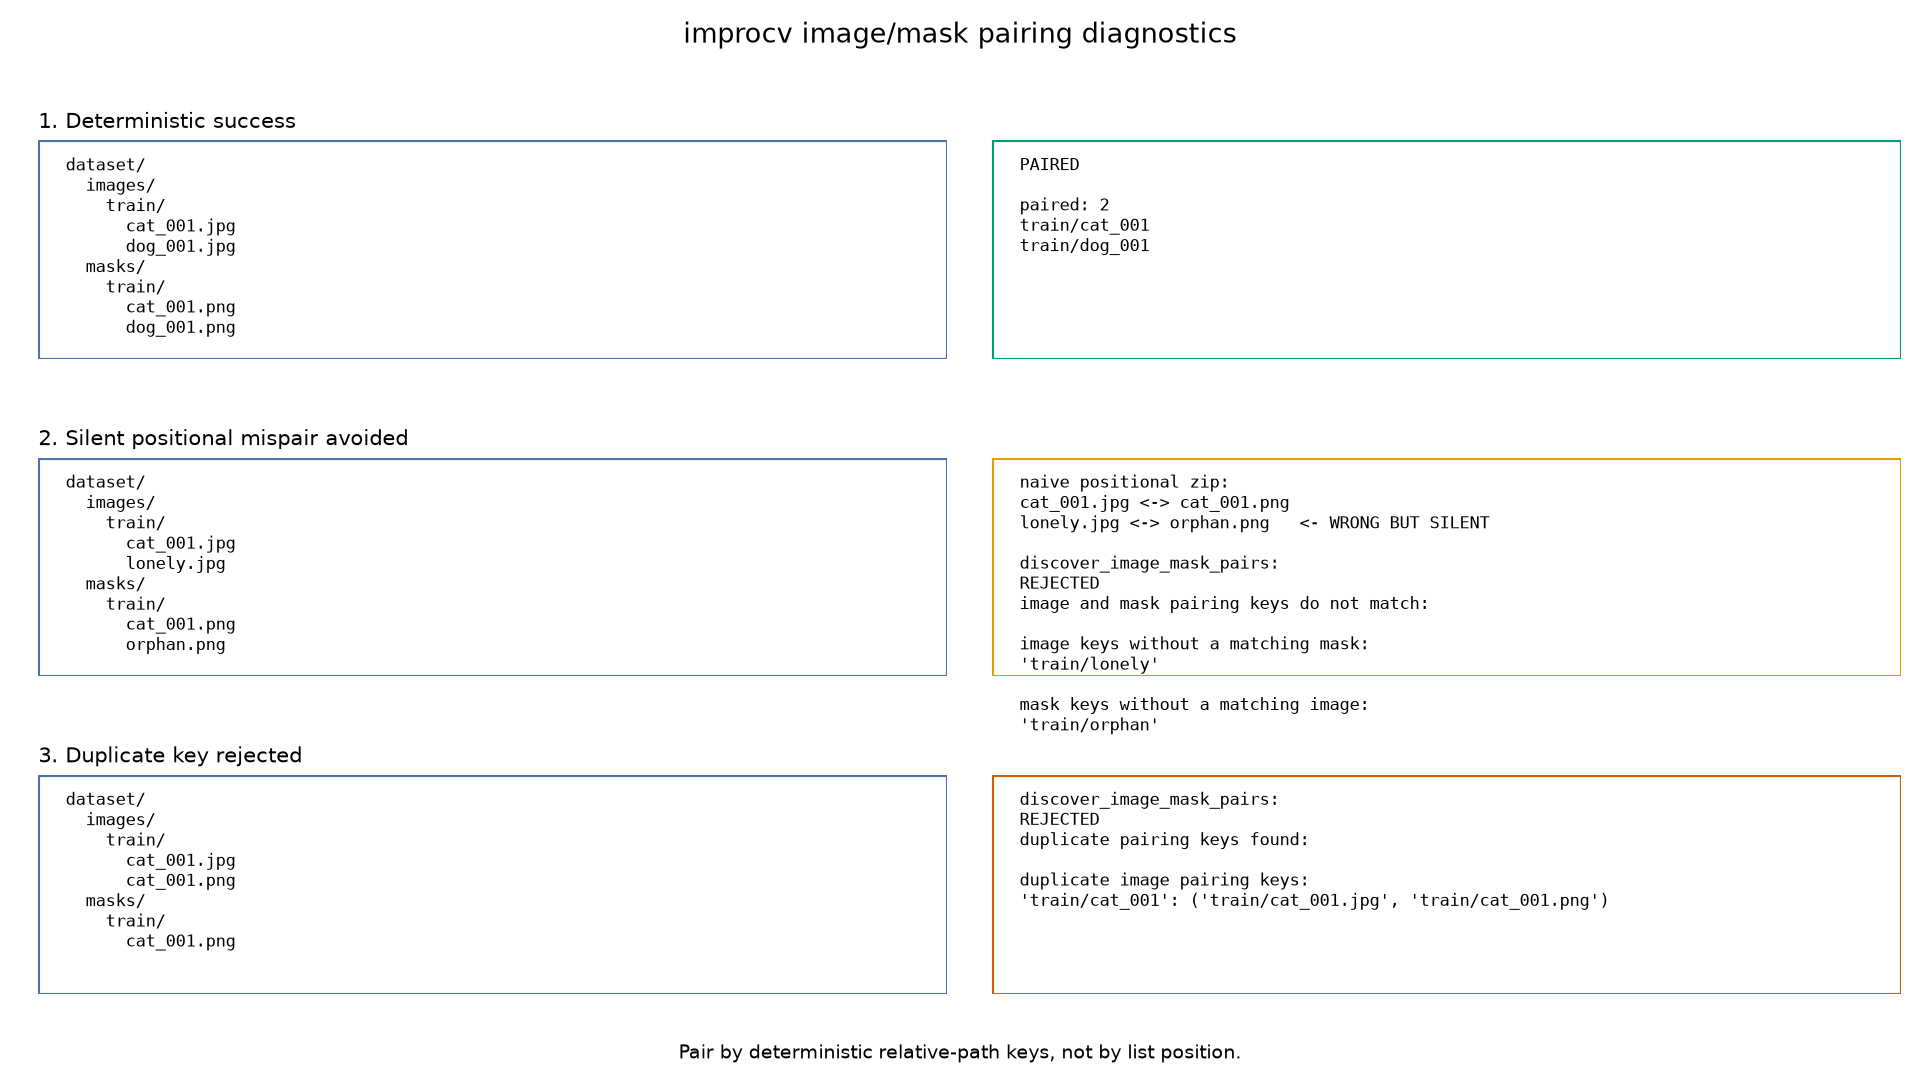
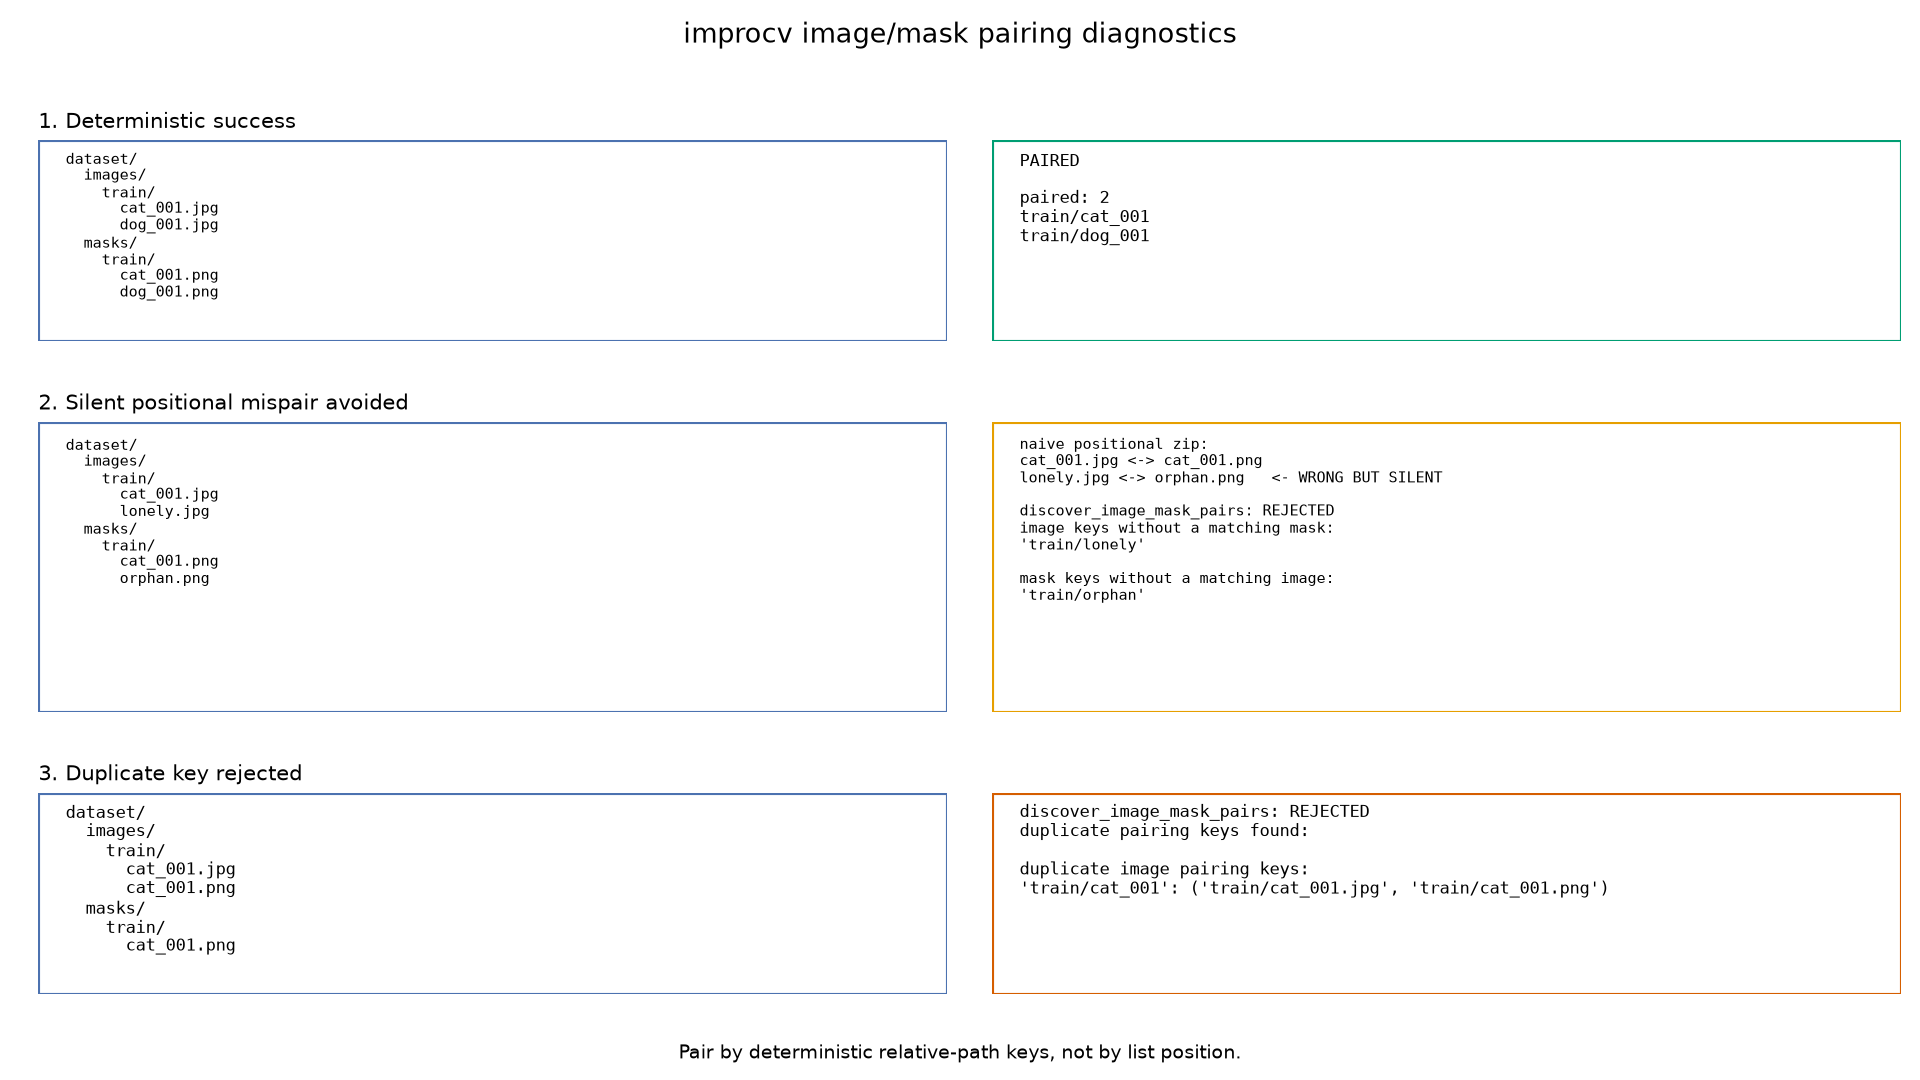
fix(demos): keep pairing diagnostics text inside panels
The missing-pair scenario's result panel needed more lines than the
uniform 3-row grid allocated, so its final lines (the unmatched mask
key) rendered below the panel's own border. Give the middle row more
height (height_ratios), trim the row's own redundant one-line headers
into a single "discover_image_mask_pairs: REJECTED" line, and keep an
exact contiguous slice of the real captured ValueError starting at
"image keys without a matching mask:" instead of its generic preamble.

Split the renderer into build_diagnostics_figure (builds the figure,
returns it with every panel's text artist) and render_diagnostics
(saves and closes it), and add find_text_overflow, which compares each
panel's real rendered text bounding box against its axes' bounding box
after a draw -- used both as an internal safety assertion in the
generator and as a direct regression test with no PNG/OCR involved.

diff --git a/demos/pairing_diagnostics.py b/demos/pairing_diagnostics.py
@@ -29,16 +29,28 @@ from __future__ import annotations
 import argparse
 import sys
 import tempfile
+from collections.abc import Sequence
 from pathlib import Path
-from typing import NamedTuple
+from typing import TYPE_CHECKING, NamedTuple
 
 import cv2
 import numpy as np
 
 import improcv as im
 
+if TYPE_CHECKING:
+    from matplotlib.axes import Axes
+    from matplotlib.backend_bases import RendererBase
+    from matplotlib.figure import Figure
+    from matplotlib.text import Text
+
 _FIGURE_SIZE_INCHES = (12.8, 7.2)
 _FIGURE_DPI = 150
+
+# The missing-pair scenario's real diagnostic (naive zip + a real ValueError, see
+# build_missing_pair_scenario) needs noticeably more lines than the other two rows; giving it a
+# taller share of the figure is what keeps its final lines from overflowing past the panel.
+_ROW_HEIGHT_RATIOS = (0.9, 1.3, 0.9)
 
 _TREE_ACCENT = "#4C72B0"
 _SUCCESS_ACCENT = "#009E73"
@@ -46,6 +58,16 @@ _SILENT_ACCENT = "#E69F00"
 _REJECTED_ACCENT = "#D55E00"
 
 _MAX_DIAGNOSTIC_LINES = 8
+
+# A panel with more than this many lines gets a slightly smaller font (still legible at an
+# 880px README width) instead of being allowed to overflow its axes.
+_COMPACT_FONT_LINE_THRESHOLD = 8
+_DEFAULT_FONT_SIZE = 8.0
+_COMPACT_FONT_SIZE = 7.0
+
+# Minimum on-screen gap (in pixels, at the figure's own render resolution) required between a
+# panel's text bounding box and its axes' bounding box on every side; see find_text_overflow.
+_OVERFLOW_MARGIN_PX = 4.0
 
 
 class Scenario(NamedTuple):
@@ -184,12 +206,19 @@ def build_missing_pair_scenario(root: Path) -> Scenario:
     assert "lonely" in raw_message, raw_message
     assert "orphan" in raw_message, raw_message
 
-    preview = _truncate_lines(_normalize_diagnostic_text(raw_message, dataset))
+    # The raw message's own leading "image and mask pairing keys do not match:" header is
+    # redundant with the "discover_image_mask_pairs: REJECTED" line already shown below it --
+    # this keeps an exact, contiguous slice of the real message starting at the first line that
+    # actually names an unmatched key, never a paraphrase or a hand-typed replacement.
+    fragment_start = "image keys without a matching mask:"
+    assert fragment_start in raw_message, raw_message
+    real_fragment = raw_message[raw_message.index(fragment_start) :]
+
+    preview = _truncate_lines(_normalize_diagnostic_text(real_fragment, dataset))
     result_lines = [
         *naive_lines,
         "",
-        "discover_image_mask_pairs:",
-        "REJECTED",
+        "discover_image_mask_pairs: REJECTED",
         preview,
     ]
 
@@ -226,7 +255,7 @@ def build_duplicate_key_scenario(root: Path) -> Scenario:
     assert "train/cat_001.png" in raw_message, raw_message
 
     preview = _truncate_lines(_normalize_diagnostic_text(raw_message, dataset))
-    result_lines = ["discover_image_mask_pairs:", "REJECTED", preview]
+    result_lines = ["discover_image_mask_pairs: REJECTED", preview]
 
     return Scenario(
         title="3. Duplicate key rejected",
@@ -237,13 +266,68 @@ def build_duplicate_key_scenario(root: Path) -> Scenario:
     )
 
 
-def render_diagnostics(
-    scenarios: tuple[Scenario, Scenario, Scenario], output: Path
-) -> tuple[int, int]:
-    """Render the 3x2 pairing diagnostics layout to `output` as a PNG.
+def _font_size_for(text: str) -> float:
+    """A slightly smaller font for a panel with more than `_COMPACT_FONT_LINE_THRESHOLD` lines.
 
-    Matplotlib is imported and configured here, inside the render path, not at module
-    import time. Returns the written image's `(width, height)` in pixels.
+    Keeps a longer panel's text from needing more vertical space than its row can spare,
+    without shrinking every panel uniformly.
+    """
+    line_count = text.count("\n") + 1
+    return _COMPACT_FONT_SIZE if line_count > _COMPACT_FONT_LINE_THRESHOLD else _DEFAULT_FONT_SIZE
+
+
+def find_text_overflow(
+    panel_texts: Sequence[tuple[Axes, Text]],
+    renderer: RendererBase,
+    margin: float = _OVERFLOW_MARGIN_PX,
+) -> list[str]:
+    """Return one description per `(axes, text)` pair whose rendered bbox overflows its axes.
+
+    `fig.canvas.draw()` must already have happened so `renderer` reflects final positions.
+    Compares each text artist's `get_window_extent()` (its actual rendered pixel bbox) against
+    its own axes' `get_window_extent()`, on all four sides, with a small pixel margin -- this
+    is what actually caught the original bug (the missing-pair panel's last two lines rendering
+    below its axes), not a visual inspection. Empty return means no overflow was found.
+    """
+    problems: list[str] = []
+    for ax, text_artist in panel_texts:
+        text_bbox = text_artist.get_window_extent(renderer=renderer)
+        axes_bbox = ax.get_window_extent(renderer=renderer)
+        label = text_artist.get_text().splitlines()[0] if text_artist.get_text() else "<empty>"
+
+        if text_bbox.y0 < axes_bbox.y0 + margin:
+            problems.append(
+                f"{label!r}: text bottom {text_bbox.y0:.1f} overflows axes bottom "
+                f"{axes_bbox.y0 + margin:.1f} (margin {margin}px)"
+            )
+        if text_bbox.y1 > axes_bbox.y1 - margin:
+            problems.append(
+                f"{label!r}: text top {text_bbox.y1:.1f} overflows axes top "
+                f"{axes_bbox.y1 - margin:.1f} (margin {margin}px)"
+            )
+        if text_bbox.x0 < axes_bbox.x0 + margin:
+            problems.append(
+                f"{label!r}: text left {text_bbox.x0:.1f} overflows axes left "
+                f"{axes_bbox.x0 + margin:.1f} (margin {margin}px)"
+            )
+        if text_bbox.x1 > axes_bbox.x1 - margin:
+            problems.append(
+                f"{label!r}: text right {text_bbox.x1:.1f} overflows axes right "
+                f"{axes_bbox.x1 - margin:.1f} (margin {margin}px)"
+            )
+    return problems
+
+
+def build_diagnostics_figure(
+    scenarios: tuple[Scenario, Scenario, Scenario],
+) -> tuple[Figure, tuple[tuple[Axes, Text], ...]]:
+    """Build the 3x2 pairing diagnostics figure without saving or closing it.
+
+    Matplotlib is imported and configured here, inside the build path, not at module import
+    time. Returns the figure alongside every `(axes, text)` pair placed in the six tree/result
+    panels (not row titles, which sit outside the panel's own text area) -- `render_diagnostics`
+    uses this to save the figure, and `tests/test_demos.py` uses it directly to check for text
+    overflow without ever writing a PNG or reading one back.
     """
     import matplotlib
 
@@ -252,12 +336,23 @@ def render_diagnostics(
     from matplotlib import pyplot as plt
     from matplotlib.patches import Rectangle
 
-    fig, axes = plt.subplots(3, 2, figsize=_FIGURE_SIZE_INCHES, dpi=_FIGURE_DPI)
-    plt.subplots_adjust(left=0.02, right=0.99, top=0.87, bottom=0.08, wspace=0.05, hspace=0.45)
+    fig = plt.figure(figsize=_FIGURE_SIZE_INCHES, dpi=_FIGURE_DPI)
+    grid = fig.add_gridspec(
+        3,
+        2,
+        left=0.02,
+        right=0.99,
+        top=0.87,
+        bottom=0.08,
+        wspace=0.05,
+        hspace=0.35,
+        height_ratios=_ROW_HEIGHT_RATIOS,
+    )
 
+    panel_texts: list[tuple[Axes, Text]] = []
     for row_index, scenario in enumerate(scenarios):
-        tree_ax = axes[row_index, 0]
-        result_ax = axes[row_index, 1]
+        tree_ax = fig.add_subplot(grid[row_index, 0])
+        result_ax = fig.add_subplot(grid[row_index, 1])
 
         tree_ax.set_title(scenario.title, fontsize=10, loc="left")
         for ax, text, accent in (
@@ -265,16 +360,18 @@ def render_diagnostics(
             (result_ax, scenario.result_text, scenario.accent),
         ):
             ax.axis("off")
-            ax.text(
+            text_artist = ax.text(
                 0.03,
-                0.93,
+                0.95,
                 text,
                 transform=ax.transAxes,
-                fontsize=8,
+                fontsize=_font_size_for(text),
                 fontfamily="monospace",
+                linespacing=1.15,
                 va="top",
                 ha="left",
             )
+            panel_texts.append((ax, text_artist))
             border = Rectangle(
                 (0.0, 0.0),
                 1.0,
@@ -295,7 +392,32 @@ def render_diagnostics(
         fontsize=9,
     )
 
+    return fig, tuple(panel_texts)
+
+
+def render_diagnostics(
+    scenarios: tuple[Scenario, Scenario, Scenario], output: Path
+) -> tuple[int, int]:
+    """Render the 3x2 pairing diagnostics layout to `output` as a PNG.
+
+    Returns the written image's `(width, height)` in pixels.
+    """
+    fig, panel_texts = build_diagnostics_figure(scenarios)
+
+    from matplotlib import pyplot as plt
+    from matplotlib.backends.backend_agg import FigureCanvasAgg
+
     try:
+        fig.canvas.draw()
+        assert isinstance(fig.canvas, FigureCanvasAgg)
+        renderer = fig.canvas.get_renderer()
+        overflow = find_text_overflow(panel_texts, renderer)
+        if overflow:
+            raise RuntimeError(
+                "internal error: pairing diagnostics text overflows its panel:\n"
+                + "\n".join(overflow)
+            )
+
         output.parent.mkdir(parents=True, exist_ok=True)
         fig.savefig(output, dpi=_FIGURE_DPI)
     finally:

diff --git a/tests/test_demos.py b/tests/test_demos.py
@@ -284,9 +284,32 @@ def test_build_missing_pair_scenario_raises_and_identifies_both_keys(
         assert "orphan" in scenario.raw_diagnostic
         assert str(root) not in scenario.raw_diagnostic
 
-    assert "REJECTED" in scenario.result_text
-    assert "lonely" in scenario.result_text
-    assert "orphan" in scenario.result_text
+    for expected in (
+        "WRONG BUT SILENT",
+        "discover_image_mask_pairs",
+        "REJECTED",
+        "image keys without a matching mask",
+        "train/lonely",
+        "mask keys without a matching image",
+        "train/orphan",
+    ):
+        assert expected in scenario.result_text, expected
+
+    # The final line naming the unmatched mask key must survive intact, not be replaced by a
+    # "... (N more lines)" truncation summary.
+    assert scenario.result_text.rstrip().endswith("'train/orphan'")
+    assert "..." not in scenario.result_text
+
+    # The rendered fragment naming both keys must be an exact, contiguous slice of the real
+    # captured exception text, not a paraphrase or hand-typed replacement.
+    assert scenario.raw_diagnostic is not None
+    real_fragment = scenario.raw_diagnostic[
+        scenario.raw_diagnostic.index("image keys without a matching mask:") :
+    ]
+    assert real_fragment in scenario.result_text
+
+    assert str(root) not in scenario.result_text
+    assert "\\" not in scenario.result_text
 
 
 def test_build_duplicate_key_scenario_raises_and_identifies_both_paths(
@@ -336,3 +359,34 @@ def test_render_directory_tree_is_sorted_relative_and_posix_style(
     assert tree == (
         "dataset/\n  images/\n    train/\n      a.jpg\n      b.jpg\n  masks/\n    train/"
     )
+
+
+def test_pairing_diagnostics_panel_text_never_overflows_its_axes(
+    pairing_module: types.ModuleType,
+) -> None:
+    # Regression test for a real bug: the missing-pair scenario's result panel used to render
+    # its final lines below its own axes' bottom edge. No OCR, no reading pixels back from a
+    # PNG -- this builds the actual figure, forces a draw so Matplotlib finalizes every
+    # artist's on-screen position, and compares each panel's text bounding box against its own
+    # axes' bounding box directly via find_text_overflow.
+    with tempfile.TemporaryDirectory() as tmp:
+        root = Path(tmp)
+        scenarios = (
+            pairing_module.build_success_scenario(root),
+            pairing_module.build_missing_pair_scenario(root),
+            pairing_module.build_duplicate_key_scenario(root),
+        )
+
+    fig, panel_texts = pairing_module.build_diagnostics_figure(scenarios)
+    try:
+        assert len(panel_texts) == 6, "expected one tree panel and one result panel per row"
+
+        fig.canvas.draw()
+        renderer = fig.canvas.get_renderer()
+        overflow = pairing_module.find_text_overflow(panel_texts, renderer)
+
+        assert overflow == [], "\n".join(overflow)
+    finally:
+        import matplotlib.pyplot as plt
+
+        plt.close(fig)
